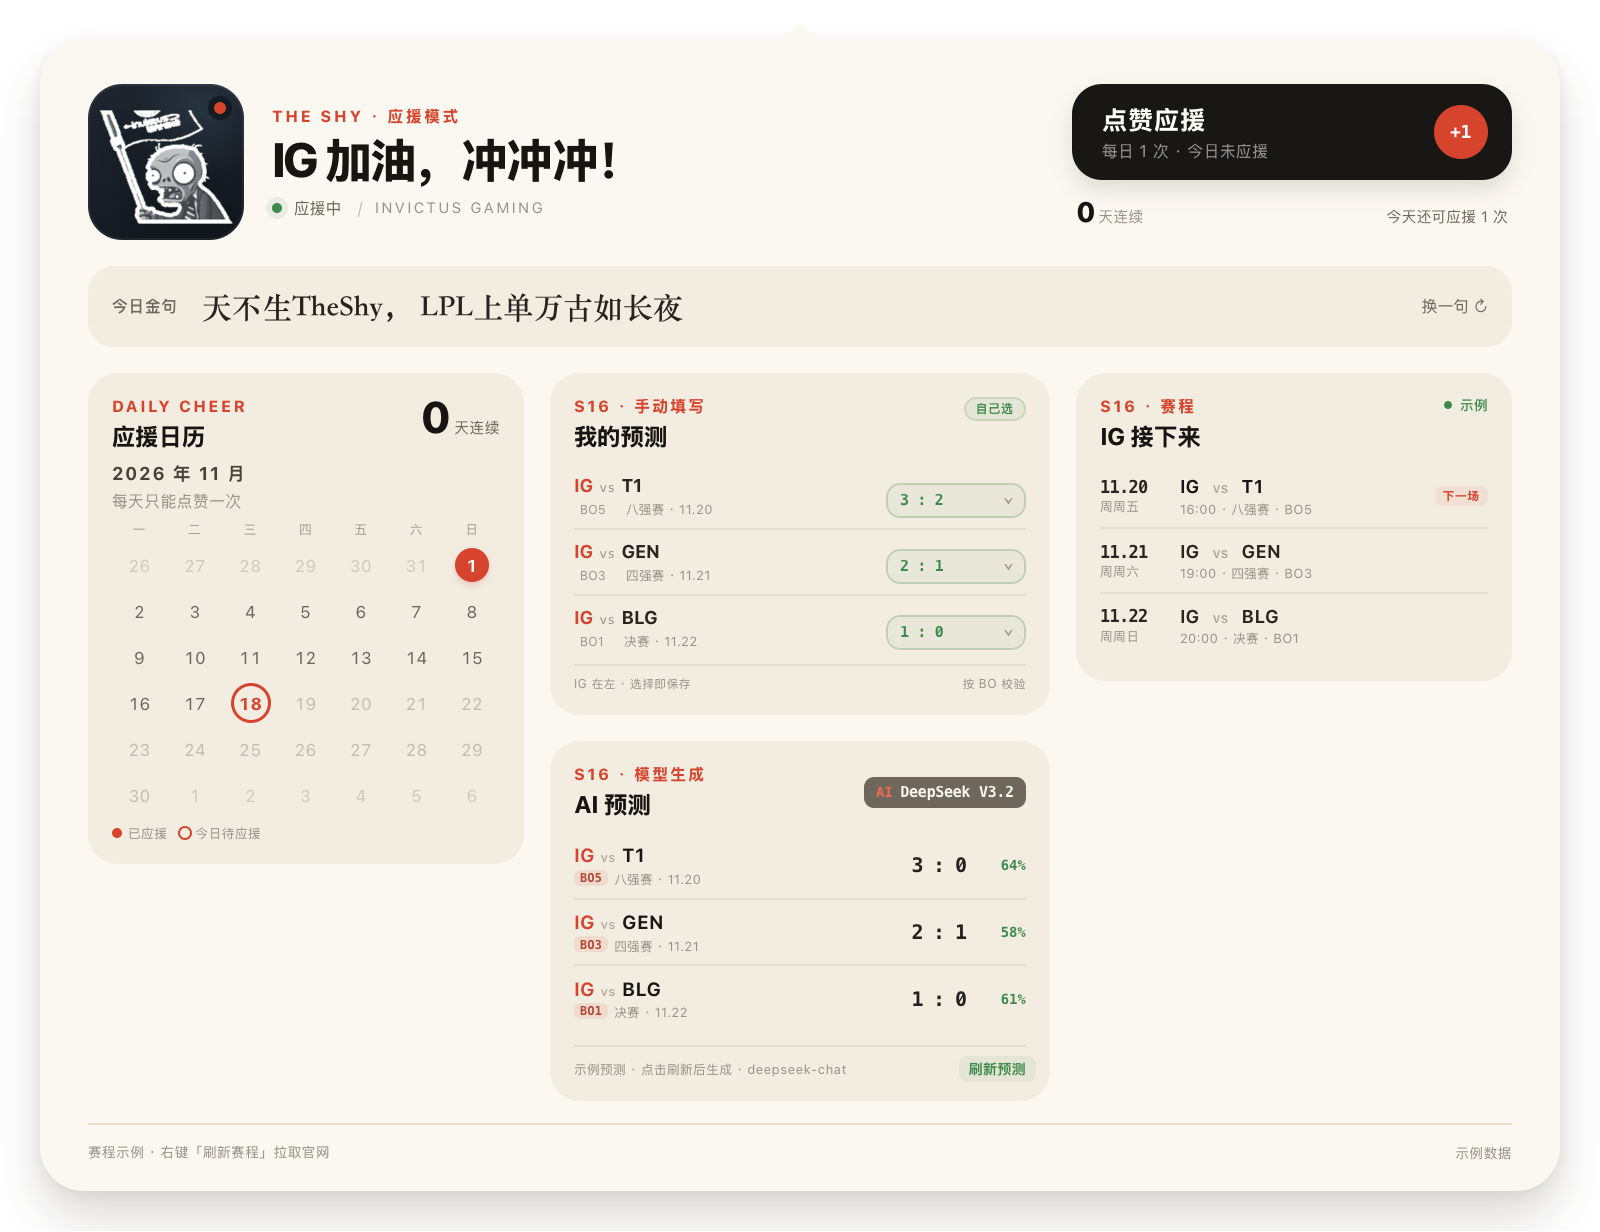
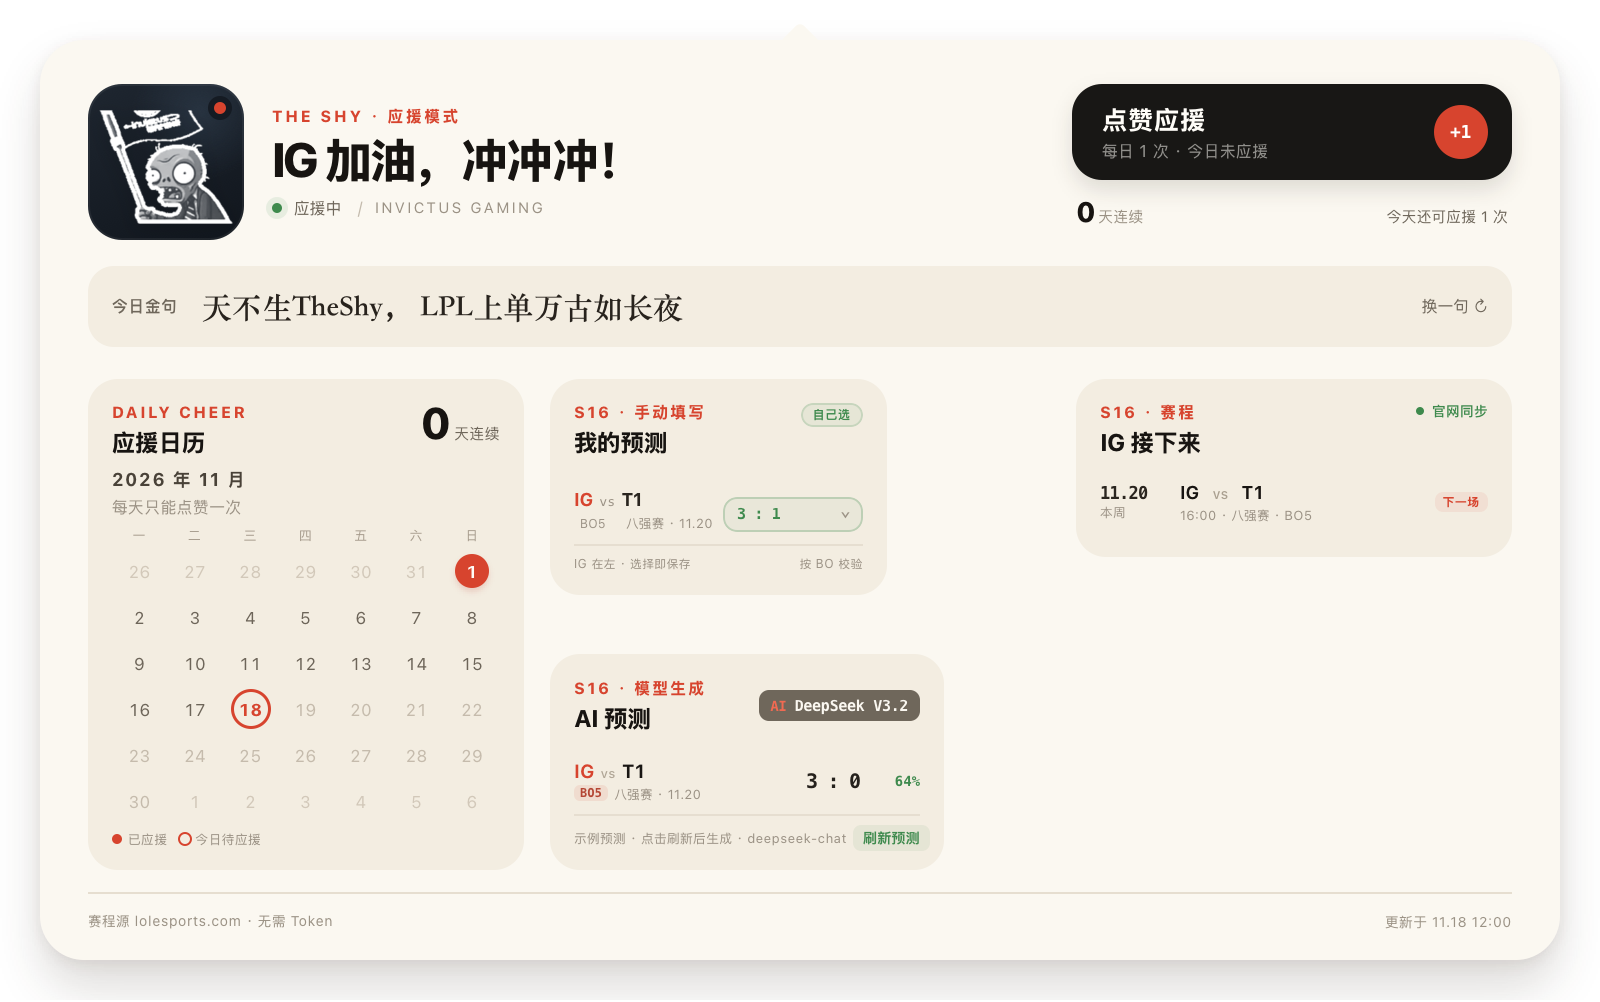
Fix panel alignment, week labels, and vertical scrolling

diff --git a/Sources/panel.js b/Sources/panel.js
@@ -286,16 +286,18 @@
       </div>
     </section>
 
-    <section class="block">
-      <div class="section-head">
-        <div>
-          <div class="eyebrow">S16 · 模型生成</div>
-          <div class="section-title">AI 预测</div>
+    <section class="block ai-section">
+      <div class="ai-card">
+        <div class="section-head">
+          <div>
+            <div class="eyebrow">S16 · 模型生成</div>
+            <div class="section-title">AI 预测</div>
+          </div>
+          ${modelBadge(state)}
         </div>
-        ${modelBadge(state)}
+        <div class="pred-list">${predictionRows(state)}</div>
+        <div class="pred-foot">${predictionFoot(state)}</div>
       </div>
-      <div class="pred-list">${predictionRows(state)}</div>
-      <div class="pred-foot">${predictionFoot(state)}</div>
     </section>
 
     <section class="block">
@@ -408,6 +410,22 @@
       <span class="footer-right">${escapeHTML(state.scheduleUpdated)}</span>
     </footer>`;
 
+  const equalizePredictionCards = (state) => {
+    if (state.mode !== "horizontal") return;
+    const cards = [...document.querySelectorAll(".prediction-stack > .dash-card")];
+    if (cards.length < 2) return;
+    cards.forEach((card) => {
+      card.style.minHeight = "";
+      card.style.height = "";
+    });
+    const tallest = Math.ceil(Math.max(...cards.map((card) => card.getBoundingClientRect().height)));
+    cards.forEach((card) => {
+      card.style.minHeight = `${tallest}px`;
+      card.style.height = `${tallest}px`;
+    });
+    window.setTimeout(notifyHeight, 10);
+  };
+
   const render = (state) => {
     currentState = state;
     document.body.dataset.mode = state.mode;
@@ -428,6 +446,13 @@
       toast.textContent = "";
     }
 
+    if (state.mode === "horizontal") {
+      window.setTimeout(() => equalizePredictionCards(state), 60);
+      window.setTimeout(() => equalizePredictionCards(state), 300);
+      if (document.fonts?.ready) {
+        document.fonts.ready.then(() => equalizePredictionCards(state));
+      }
+    }
     window.setTimeout(notifyHeight, 40);
     if (document.fonts?.ready) {
       document.fonts.ready.then(() => window.setTimeout(notifyHeight, 10));
@@ -456,6 +481,15 @@
     if (!Number.isInteger(igScore) || !Number.isInteger(opponentScore)) return;
     post("saveMyPrediction", { matchID, igScore, opponentScore });
   });
+
+  let lastScrollPing = 0;
+  document.addEventListener("scroll", (event) => {
+    if (!event.target || event.target.id !== "panel") return;
+    const now = Date.now();
+    if (now - lastScrollPing < 500) return;
+    lastScrollPing = now;
+    post("keepAlive");
+  }, true);
 
   document.addEventListener("click", (event) => {
     const actionEl = event.target.closest("[data-action]");

diff --git a/Sources/main.swift b/Sources/main.swift
@@ -129,8 +129,8 @@ enum PanelMode: String, CaseIterable {
 
     var title: String {
         switch self {
-        case .vertical: return "纵向长卡"
-        case .horizontal: return "横向仪表盘"
+        case .vertical: return "纵向"
+        case .horizontal: return "横向"
         }
     }
 }
@@ -169,6 +169,7 @@ final class DropdownController {
     var onRefreshPredictions: (() -> Void)?
     var onSaveMyPrediction: ((String, Int, Int) -> Void)?
     var onClearMyPrediction: ((String) -> Void)?
+    var onKeepAlive: (() -> Void)?
     var onDismiss: (() -> Void)?
 
     var isVisible: Bool {
@@ -203,6 +204,7 @@ final class DropdownController {
         s.onClearMyPrediction = { [weak self] matchID in
             self?.onClearMyPrediction?(matchID)
         }
+        s.onKeepAlive = { [weak self] in self?.onKeepAlive?() }
         s.onDismiss = { [weak self] in self?.onDismiss?() }
         s.onResize = { [weak self] height in self?.resize(to: height) }
         p.contentView = s
@@ -363,6 +365,7 @@ final class AppDelegate: NSObject, NSApplicationDelegate {
         dropdown.onClearMyPrediction = { [weak self] matchID in
             self?.clearMyPrediction(matchID: matchID)
         }
+        dropdown.onKeepAlive = { [weak self] in self?.dropdown.keepAlive() }
         dropdown.onDismiss = { [weak self] in self?.dropdown.hide() }
     }
 
@@ -746,7 +749,7 @@ final class AppDelegate: NSObject, NSApplicationDelegate {
             scheduleRows.append(PanelScheduleRow(
                 id: match.id,
                 dateText: parts.date,
-                weekday: parts.weekday,
+                weekday: DisplayFormat.weekLabel(for: match.startDate, now: now),
                 timeText: parts.time,
                 opponent: match.opponent?.code ?? "TBD",
                 stage: DisplayFormat.stage(match.stage),
@@ -1000,6 +1003,7 @@ final class AppDelegate: NSObject, NSApplicationDelegate {
         currentMode = mode
         let size = PanelMetrics.initialSize(for: mode)
         let surface = PanelWebSurface(frame: NSRect(origin: .zero, size: size))
+        surface.setPreviewMode()
         surface.setState(buildState(toast: nil))
         let window = NSWindow(contentRect: NSRect(origin: .zero, size: size),
                               styleMask: [.borderless],

diff --git a/Sources/PanelWebView.swift b/Sources/PanelWebView.swift
@@ -12,6 +12,7 @@ final class PanelWebSurface: NSView, WKNavigationDelegate, WKScriptMessageHandle
     var onRefreshPredictions: (() -> Void)?
     var onSaveMyPrediction: ((String, Int, Int) -> Void)?
     var onClearMyPrediction: ((String) -> Void)?
+    var onKeepAlive: (() -> Void)?
     var onDismiss: (() -> Void)?
     var onResize: ((CGFloat) -> Void)?
 
@@ -20,6 +21,7 @@ final class PanelWebSurface: NSView, WKNavigationDelegate, WKScriptMessageHandle
     private var pendingState: PanelState?
     private var pendingTail: CGFloat?
     private var lastStateJSON: String?
+    private var previewMode = false
 
     override init(frame frameRect: NSRect) {
         let configuration = WKWebViewConfiguration()
@@ -71,6 +73,17 @@ final class PanelWebSurface: NSView, WKNavigationDelegate, WKScriptMessageHandle
         applyTail()
     }
 
+    /// Preview captures need the whole card, not the clipped 983pt viewport.
+    func setPreviewMode() {
+        previewMode = true
+        guard loaded else { return }
+        applyPreviewMode()
+    }
+
+    private func applyPreviewMode() {
+        webView.evaluateJavaScript("document.body.classList.add('preview-mode');", completionHandler: nil)
+    }
+
     func snapshot(completion: @escaping (NSImage?) -> Void) {
         let configuration = WKSnapshotConfiguration()
         webView.takeSnapshot(with: configuration) { image, error in
@@ -104,6 +117,7 @@ final class PanelWebSurface: NSView, WKNavigationDelegate, WKScriptMessageHandle
 
     func webView(_ webView: WKWebView, didFinish navigation: WKNavigation!) {
         loaded = true
+        if previewMode { applyPreviewMode() }
         applyPendingState()
     }
 
@@ -149,6 +163,8 @@ final class PanelWebSurface: NSView, WKNavigationDelegate, WKScriptMessageHandle
             if let matchID = body["matchID"] as? String {
                 onClearMyPrediction?(matchID)
             }
+        case "keepAlive":
+            onKeepAlive?()
         case "dismiss":
             onDismiss?()
         case "resize":

diff --git a/Sources/Models.swift b/Sources/Models.swift
@@ -862,7 +862,7 @@ enum DisplayFormat {
         let weekdayFormatter = DateFormatter()
         weekdayFormatter.locale = Locale(identifier: "zh_CN")
         weekdayFormatter.timeZone = .current
-        weekdayFormatter.dateFormat = "周EEE"
+        weekdayFormatter.dateFormat = "EEE"
         let timeFormatter = DateFormatter()
         timeFormatter.locale = Locale(identifier: "en_US_POSIX")
         timeFormatter.timeZone = .current
@@ -870,6 +870,35 @@ enum DisplayFormat {
         return (dateFormatter.string(from: date),
                 weekdayFormatter.string(from: date),
                 timeFormatter.string(from: date))
+    }
+
+    /// Human week bucket for the schedule list: 本周 / 下周 / 下下周.
+    /// Weeks start on Monday, matching the calendar layout.
+    static func weekLabel(for date: Date?, now: Date = Date()) -> String {
+        guard let date else { return "--" }
+        var calendar = Calendar(identifier: .gregorian)
+        calendar.locale = Locale(identifier: "zh_CN")
+        calendar.timeZone = .current
+        calendar.firstWeekday = 2
+        guard let currentStart = calendar.dateInterval(of: .weekOfYear, for: now)?.start,
+              let targetStart = calendar.dateInterval(of: .weekOfYear, for: date)?.start else {
+            return "--"
+        }
+        let days = calendar.dateComponents([.day], from: currentStart, to: targetStart).day ?? 0
+        let weeks = Int((Double(days) / 7.0).rounded())
+        switch weeks {
+        case 0: return "本周"
+        case 1: return "下周"
+        case 2: return "下下周"
+        case -1: return "上周"
+        case -2: return "上上周"
+        default:
+            let formatter = DateFormatter()
+            formatter.locale = Locale(identifier: "zh_CN")
+            formatter.timeZone = .current
+            formatter.dateFormat = "EEE"
+            return formatter.string(from: date)
+        }
     }
 
     static func relativeUpdated(_ raw: String) -> String {

diff --git a/Sources/panel.css b/Sources/panel.css
@@ -548,6 +548,19 @@ h1 {
   background: var(--paper-2);
 }
 .manual-card .section-head { margin-bottom: 5px; }
+.ai-section {
+  margin-top: 10px;
+  padding-top: 0;
+  border-top: 0;
+}
+.ai-card {
+  padding: 12px 13px 10px;
+  border-radius: 15px;
+  background: var(--paper-2);
+}
+.ai-card .section-head { margin-bottom: 5px; }
+.ai-card .pred-foot { margin-top: 5px; }
+.quote-section + .cta { margin-top: 18px; }
 .manual-tag {
   flex: 0 0 auto;
   padding: 3px 6px;
@@ -651,10 +664,22 @@ h1 {
   font-size: 6.5px;
   letter-spacing: .02em;
 }
-.v2 .dash-card.manual-card { padding: 12px; }
+.v2 .dash-card.manual-card {
+  display: flex;
+  flex-direction: column;
+  padding: 12px;
+}
+.v2 .dash-card.prediction-card {
+  display: flex;
+  flex-direction: column;
+}
+.v2 .manual-card .manual-foot,
+.v2 .prediction-card .pred-foot { margin-top: auto; }
 .v2 .prediction-stack {
   display: flex;
   flex-direction: column;
+  align-self: stretch;
+  justify-content: space-between;
   gap: 13px;
   min-width: 0;
 }
@@ -811,8 +836,10 @@ h1 {
   grid-template-columns: 218px minmax(0, 1fr) 218px;
   align-items: start;
   gap: 13px;
-  margin-top: 13px;
+  margin-top: 16px;
 }
+.v2 .calendar-card { align-self: stretch; }
+.v2 .schedule-card { align-self: start; }
 .v2 .dash-card {
   min-width: 0;
   padding: 12px;
@@ -1058,6 +1085,15 @@ body[data-mode="horizontal"] { width: 800px; }
 .panel.v2 {
   width: 760px;
   min-height: 462px;
+}
+body[data-mode="vertical"] .panel {
+  max-height: calc(100vh - 40px);
+  overflow-y: auto;
+  overscroll-behavior: contain;
+}
+body.preview-mode[data-mode="vertical"] .panel {
+  max-height: none;
+  overflow: visible;
 }
 .panel::before { left: var(--tail-x, 50%) !important; }
 ::-webkit-scrollbar { display: none; }

diff --git a/README.md b/README.md
@@ -2,11 +2,11 @@
 
 一个只为 Invictus Gaming 打 Call 的 macOS 菜单栏小工具。
 
-左键点菜单栏图标打开应援面板；右键打开设置菜单。支持纵向长卡与横向仪表盘两种布局，可在菜单中随时切换。
+左键点菜单栏图标打开应援面板；右键打开设置菜单。支持纵向与横向两种布局，可在菜单中随时切换。
 
 <p align="center">
-  <img src="docs/panel-vertical.png" width="440" alt="纵向长卡界面"><br>
-  <img src="docs/panel-horizontal.png" width="800" alt="横向仪表盘界面">
+  <img src="docs/panel-vertical.png" width="440" alt="纵向界面"><br>
+  <img src="docs/panel-horizontal.png" width="800" alt="横向界面">
 </p>
 
 > 预览图为透明背景，不含本机路径或本地模型信息；其中赛程、我的预测和 AI 预测使用演示数据。
@@ -26,22 +26,23 @@
 
 ## 界面与交互
 
-### 纵向长卡
+### 纵向
 
 适合快速看一眼今日金句、应援状态和下一场赛程。
 
 - 头像、`IG 加油，冲冲冲！` 与状态行。
-- 「今日金句」支持轮播与「换一句」。
+- 「今日金句」支持轮播与「换一句」；与下方点赞卡之间留出更明显的间距。
 - 每日一次「点赞应援」。
-- 月历、连续天数、我的预测、AI 预测和赛程纵向展开。我的预测可逐场选择比分，AI 预测单独展示模型结果。
+- 月历、连续天数、我的预测、AI 预测和赛程纵向展开。我的预测和 AI 预测都以独立卡片展示；我的预测可逐场选择比分，AI 预测单独展示模型结果。
+- 内容超过面板可视高度时，面板内部支持上下滑动；滚动不会打断自动收起计时。
 
-### 横向仪表盘
+### 横向
 
 适合在桌面宽度下同时查看日历、预测和赛程。
 
-- 日历 / 预测 / 赛程三列并排；中间列上下分别是「我的预测」和「AI 预测」。
+- 日历与中间预测列上下边缘对齐，右侧赛程卡按内容自然高度展示；中间列上下分别是「我的预测」和「AI 预测」。
 - 当前模型显示在 AI 预测卡顶部。
-- 只有一场待预测比赛时，卡片会按内容收紧，不留下大块空白。
+- 两张预测卡按较高一张对齐，只有一场待预测比赛时也不会出现上下错位。
 
 右键菜单 →「展示模式」可切换，选择会记住。我的预测的选择会立即保存到本地，不触发模型请求；AI 预测卡底部的「刷新预测」与右键菜单的「刷新 AI 比分预测」等价。打开面板、切换模型、保存设置或刷新赛程都不会自动请求模型。
 
@@ -59,7 +60,7 @@
 /Applications/IG应援.app
 ```
 
-首次启动没有 Dock 图标，只在菜单栏出现。当前版本：`0.3.0`（build 12）。
+首次启动没有 Dock 图标，只在菜单栏出现。当前版本：`0.3.1`（build 13）。
 
 ## 模型配置与 API Key 安全
 
